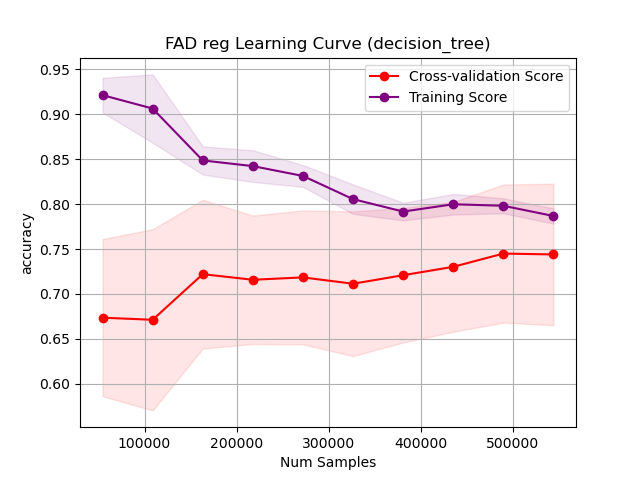
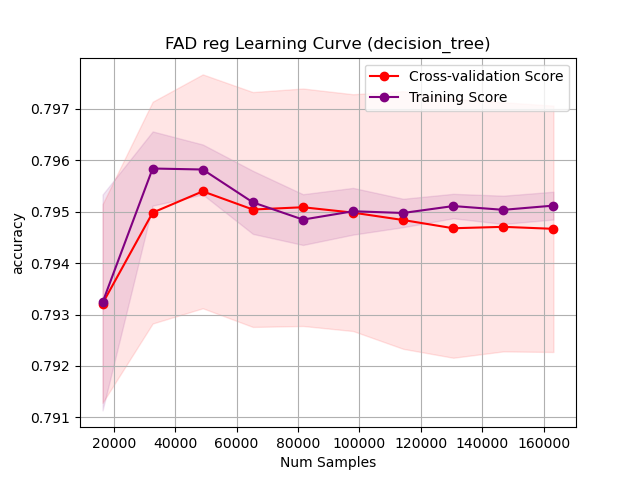
WIP

diff --git a/supervised_learning/clean.py b/supervised_learning/clean.py
@@ -6,7 +6,7 @@ from sklearn.neighbors import KNeighborsClassifier
 from sklearn.neural_network import MLPClassifier
 from numpy import mean
 from sklearn.svm import SVC
-
+from sklearn.preprocessing import StandardScaler
 matplotlib.use("TkAgg")
 import matplotlib.pyplot as plt
 from sklearn import tree as dt
@@ -62,18 +62,36 @@ def get_data_OSI():
     clean_attrs = column_trans.fit_transform(attributes)
     X_train, X_test, y_train, y_test = train_test_split(clean_attrs, target, stratify=target, test_size=0.3,
                                                         random_state=RANDOM_STATE)
+    scaler = StandardScaler()
+    scaler.fit(X_train)
+    X_train = scaler.transform(X_train)
+    X_test = scaler.transform(X_test)
     return X_train, y_train, X_test, y_test
 
-def get_data_ford():
+def get_data_ford(dataset_sample, num_features):
     df_train = pd.read_csv(dataroot + 'fordTrain.csv')
     df_test = pd.read_csv(dataroot + 'fordTest.csv')
     df_pred = pd.read_csv(dataroot + 'Solution.csv')
     y_train = df_train['IsAlert']
     y_test = df_pred['Prediction']
-    X_train = df_train.drop(['IsAlert', 'TrialID', 'ObsNum'], axis=1)
-    #Best Feature Selection
-    X_train = X_train[['P6', 'E9', 'V10']]
-    X_test = df_test[['P6', 'E9', 'V10']]
+    if num_features == 'full':
+        print("Selecting all features")
+        X_train = df_train.drop(['IsAlert', 'TrialID', 'ObsNum'], axis=1)
+        X_test = df_test.drop(['IsAlert', 'TrialID', 'ObsNum'], axis=1)
+
+    else:
+        #Best Feature Selection
+        print("Selecting SFS Forward features")
+        X_train = df_train[['P6', 'E9', 'V10']]
+        X_test = df_test[['P6', 'E9', 'V10']]
+    if dataset_sample != 0:
+        print("Sampling the training set at: "+str(dataset_sample))
+        X_train, X_test_new, y_train, y_test_new = train_test_split(X_train, y_train, train_size=dataset_sample,
+                                                            random_state=RANDOM_STATE)
+    scaler = StandardScaler()
+    scaler.fit(X_train)
+    X_train = scaler.transform(X_train)
+    X_test = scaler.transform(X_test)
     return X_train, y_train, X_test, y_test
 
 def plot_learning_curve(is_iterative, model,title,X_train,y_train,cv, filename,scoring):
@@ -383,19 +401,19 @@ def run_shoppers(dataroot):
     #     {'n_estimators': [50, 100, 150, 200]},
     #     {'learning_rate': [0.0001, 0.001, 0.01]}
     # )
-    run_svc(
-        X_train,
-        y_train,
-        X_test,
-        y_test,
-        scoring,
-        cross_val_folds,
-        smote,
-        run_type,
-        {'C': [1,2,3,4,5,6,7,8,9,10]},  # validation_curve
-        #{'kernel': ['linear', 'poly', 'rbf', 'sigmoid', 'precomputed']},  # validation_curve
-        {'kernel': ['rbf', 'sigmoid']},  # validation_curve
-    )
+    # run_svc(
+    #     X_train,
+    #     y_train,
+    #     X_test,
+    #     y_test,
+    #     scoring,
+    #     cross_val_folds,
+    #     smote,
+    #     run_type,
+    #     {'C': [1,2,3,4,5,6,7,8,9,10]},  # validation_curve
+    #     #{'kernel': ['linear', 'poly', 'rbf', 'sigmoid', 'precomputed']},  # validation_curve
+    #     {'kernel': ['rbf', 'sigmoid']},  # validation_curve
+    # )
     #preference bias
     #Locality: Near points are similar
     #smoothness: averaging over nearest neighbors
@@ -415,7 +433,9 @@ def run_shoppers(dataroot):
 
 #TODO: See if the distribution of trues to falses is the same between training and testing
 def run_ford(dataroot):
-    X_train, y_train, X_test, y_test = get_data_ford()
+    training_sample = 0.3
+    num_features = 'full'
+    X_train, y_train, X_test, y_test = get_data_ford(training_sample, num_features)
     scoring = 'accuracy'
     cross_val_folds = 10
     smote = (False, None, None)
@@ -430,22 +450,22 @@ def run_ford(dataroot):
     #     smote,
     #     run_type,
     #     {'max_depth': [3,5,9,10,12,14,16,18,20]},
-    #     None
+    #     {'criterion': ['gini', 'entropy']}
     # )
-    # run_nn(
-    #     X_train,
-    #     y_train,
-    #     X_test,
-    #     y_test,
-    #     scoring,
-    #     cross_val_folds,
-    #     smote,
-    #     run_type,
-    #     #(10,10,10) = 3 hidden layers with 10 units, (10,) = 1 hidden layer with 10 units
-    #     #had to play with the below numbers a lot
-    #     {'hidden_layer_sizes': [(100,), (150,), (200,), (100,100), (100,100,100)]},  # validation_curve
-    #     {'activation': ['logistic', 'tanh', 'relu', 'identity']},  # validation_curve
-    # )
+    run_nn(
+        X_train,
+        y_train,
+        X_test,
+        y_test,
+        scoring,
+        cross_val_folds,
+        smote,
+        run_type,
+        #(10,10,10) = 3 hidden layers with 10 units, (10,) = 1 hidden layer with 10 units
+        #had to play with the below numbers a lot
+        {'hidden_layer_sizes': [(100,), (150,), (200,), (100,100), (100,100,100)]},  # validation_curve
+        {'activation': ['logistic', 'tanh', 'relu', 'identity']},  # validation_curve
+    )
     # run_ada(
     #     X_train,
     #     y_train,
@@ -470,19 +490,19 @@ def run_ford(dataroot):
     #     {'n_neighbors': [3,4,5,6,7,8,9,10]},  # validation_curve
     #     {'weights': ['uniform', 'distance']},  # validation_curve
     # )
-    run_svc(
-        X_train,
-        y_train,
-        X_test,
-        y_test,
-        scoring,
-        cross_val_folds,
-        smote,
-        run_type,
-        {'C': [1,2,3,4,5,6,7,8,9,10]},  # validation_curve
-        #{'kernel': ['linear', 'poly', 'rbf', 'sigmoid', 'precomputed']},  # validation_curve
-        {'kernel': ['rbf', 'sigmoid']},  # validation_curve
-    )
+    # run_svc(
+    #     X_train,
+    #     y_train,
+    #     X_test,
+    #     y_test,
+    #     scoring,
+    #     cross_val_folds,
+    #     smote,
+    #     run_type,
+    #     {'C': [1,2,3,4,5,6,7,8,9,10]},  # validation_curve
+    #     #{'kernel': ['linear', 'poly', 'rbf', 'sigmoid', 'precomputed']},  # validation_curve
+    #     {'kernel': ['rbf', 'sigmoid']},  # validation_curve
+    # )
 if __name__ == "__main__":
     passed_arg = sys.argv[1]
     if passed_arg.startswith('/'):
